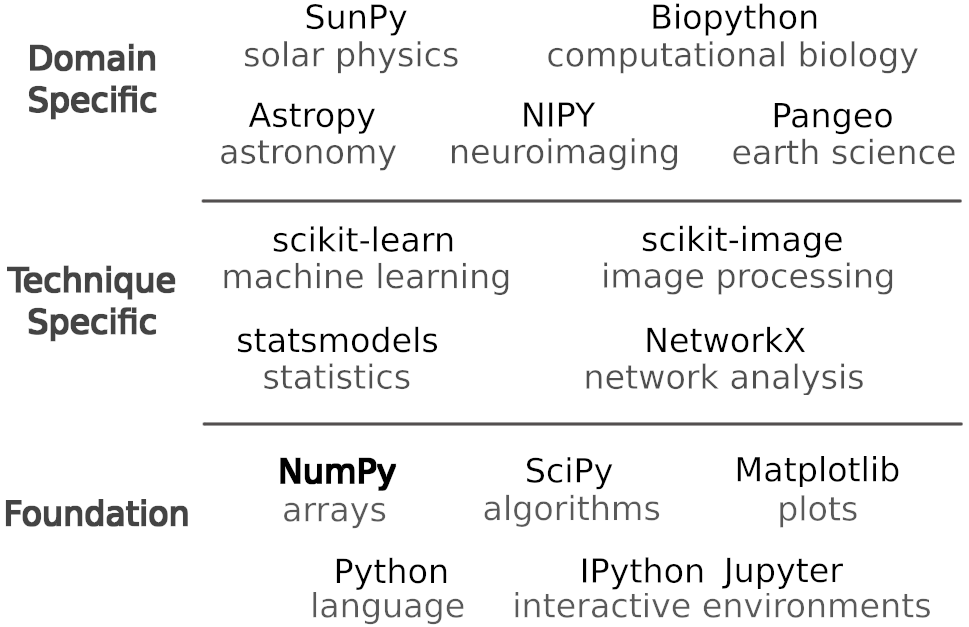
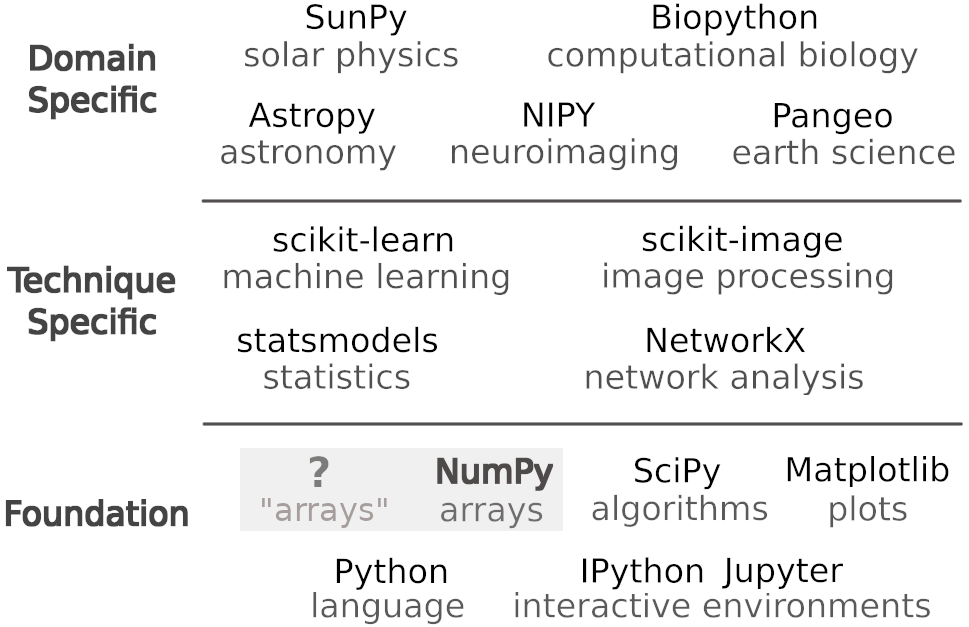
Use vectorize and minor edits

Changed region(s): [[0.4334, 0.7273, 0.9907, 0.8485], [0.2786, 0.7273, 0.4025, 0.8485]]

diff --git a/body.tex b/body.tex
@@ -76,7 +76,7 @@ written in those languages to directly access NumPy array data in memory.
 
 Users interact with NumPy arrays using {\em indexing} (to access
 subarrays or individual elements), {\em operators} (e.g., $+$, $-$, $\times$
-for elementwise operations and $@$ for matrix multiplication), as well as {\em array-aware functions};
+for vectorized operations and $@$ for matrix multiplication), as well as {\em array-aware functions};
 together, these provide an easily readable, expressive, high-level API for
 array programming, while NumPy
 deals with the underlying mechanics of making operations fast.
@@ -89,8 +89,13 @@ the original array, such that data is shared between the two arrays.
 This provides a powerful way to operate on subsets of array data, while
 limiting memory usage.
 
+\fixme{Up to here we were talking about arrays, now we introduce array programming.
+Need to better explain vectorization in array programming.
+This is perhaps the essential thing about it so we should make it slightly
+more explicit.  It is just shorter to type, but it is easier to think
+about. }
 To complement the array syntax, NumPy includes functions that perform
-elementwise calculations on arrays, including arithmetic, statistics, and
+vectorized calculations on arrays, including arithmetic, statistics, and
 trigonometry.
 They aim to loop over array elements near-optimally, taking into consideration,
 e.g., strides, in order to best utilize the computer's fast cache memory.
@@ -98,8 +103,11 @@ Vectorized operations that would take many tens of lines to express in
 languages such as C can often be implemented as a single, clear Python
 expression.
 
-When performing an elementwise operation (such as addition) on two arrays, one
+When performing a vectorized operation (such as addition) on two arrays, one
 expects that these arrays should have the same shape.
+% might expect if you are coming from other languages
+% wouldn't expect if you were doing math
+% scalar vector multiplication, scalar matrix multiplication, etc.
 However, through \emph{broadcasting}, NumPy allows the dimensions to differ, while
 still producing results that appeal to intuition.
 A trivial example is the addition of a scalar value to an array, but it also
@@ -127,24 +135,20 @@ such as OpenBLAS \cite{wang2013augem,xianyi2012model} and Intel MKL optimized fo
 \section*{Scientific Python ecosystem}
 
 
-% - review supporting the ecosystem (actual support element)
-%   - docstrings / testing / packaging
-%   - coordinating mechanism
-%     - deprecation policy
-
 The brevity and expressive power of NumPy's array programming syntax combined with 
 an advanced interactive environment like IPython \cite{perez2007ipython}
 or Jupyter \cite{Kluyver:2016aa} makes interactive data exploration fluid and simple.
-It is common for NumPy users to work interactively with their data,
-discovering through experimentation bits of code that they stitch together into
-imperative or functional programs.
 SciPy and Matplotlib are tightly integrated with NumPy to expand the suite of
 standard algorithms and provide basic plotting capabilities.
-SciPy provides fundamental algorithms for scientific computing on arrays
-including many mathematical, scientific, and engineering routines.
+SciPy provides many fundamental algorithms for scientific computing on arrays
+including mathematical, scientific, and engineering routines.
 Matplotlib generates publication-ready figures and visualizations.
+
+% say something about this already being a good foundation comparable to
+% other scientific computing languages.
+
 The scientific Python ecosystem (Fig.~\ref{fig:ecosystem}) builds on top of
-this solid foundation providing many, widely used technique-specific
+this foundation providing many, widely used technique-specific
 libraries\cite{pedregosa2011scikit,vanderwalt2014scikit,SciPyProceedings_11}
 and several domain-specific projects and libraries
 \cite{astropy:2013,astropy:2018,cock2009biopython,millman2007analysis,2018EGUGA..2012146H}.
@@ -152,12 +156,14 @@ Exposing these simple array programming primitives, as well as the surrounding e
 tools, in Python---an interpreted, general purpose language---creates an ideal environment for
 interactive, exploratory data analysis where users may iteratively inspect,
 manipulate, and visualize their data.
-This rich environment has made the scientific Python ecosystem popular for scientific
+Working interactively with their data, users discover through experimentation
+bits of code that they stitch together into imperative or functional programs.
+This rich and productive environment has made the scientific Python ecosystem popular for scientific
 research.
 
 \begin{figure}
   \centering
-  \includegraphics[width=.48\textwidth]{static/ecosystem}
+  \includegraphics[width=.45\textwidth]{static/ecosystem}
   \caption{\textbf{Scientific Python Ecosystem.}
    This figure highlights some of the essential tools and libraries in the vast
    scientific Python ecosystem.  Most of the ecosystem builds on NumPy to
@@ -172,17 +178,16 @@ NumPy arrays are used to store and manipulate numerical data at every step
 in the processing chain: from raw data through calibration and image 
 reconstruction.
 SciPy is used to provide tools used in general image processing such as 
-filtering and image alignment, while scikit-image provides higher-level
-functionality such as edge filters and Hough transforms.
-scikit-image is a popular technique-specific library,
-which vastly extends the basic image processing tools provided by SciPy.
+filtering and image alignment, while scikit-image---a popular image processing
+library that extends SciPy---provides higher-level functionality such as
+edge filters and Hough transforms.
 Other components of SciPy are used throughout the library, such as the
 \code{scipy.optimize} subpackage for handling general optimization tasks.
-NetworkX \cite{SciPyProceedings_11} (the standard package for complex
-network analysis) is used for analysis of consistency among image
+NetworkX \cite{SciPyProceedings_11}---a popular package for complex
+network analysis---is used for analysis of consistency among image
 comparisons.
-Astropy \cite{astropy:2013, astropy:2018} (a community-developed astronomy
-library) is used throughout the library,
+The community developed astronomy library, Astropy \cite{astropy:2013, astropy:2018},
+is used throughout \code{eht-imaging},
 primarily to handle standard astronomical file formats and time/coordinate
 transformations.
 Matplotlib is
@@ -191,11 +196,11 @@ including the generation of the final image of the black hole.
 % N.B. - most of this comes from introspecting the Image class defined in
 % ehtim/image.py and grepping the dependencies in requirements.txt
 
-Tools for analyzing data from gravitational wave observatories such as LIGO
-and Virgo are provided by the \code{pycbc} package, which was used in the first
+Tools for analyzing data from gravitational wave observatories are
+provided by the \code{pycbc} package, which was used in the first
 detection of gravitational waves \cite{abbott2016observation} and in 
 on-going analysis of data from LIGO and Virgo.
-\code{pycbc} make extensive use of the scientific Python ecosystem.
+\code{pycbc} also make extensive use of the scientific Python ecosystem.
 The time-series data from the interferometers are stored in NumPy arrays,
 while the \code{scipy.signal} subpackage is used to construct and apply filters to the
 data.
@@ -205,12 +210,25 @@ visualization of the ``chirps'' that result from mergers of compact binaries
 such as black holes\cite{abbott2016observation} and
 neutron stars\cite{abbott2017multi}.
 
+% need better transition
+% similar tools exist in physics, chemistry, biology, earth sciences,
+% engineering
+% this means there is an extraordinary need for stability and reliability
+% this conflicts with competing need to innovate
+% resolving this tension requires balancing trade-offs
+% this lead to a proliferation of arrays  
+
 The rich ecosystem of tools building on NumPy and the larger community
 of scientists and programmers using those tools mean that NumPy has a
 responsibility to maintain considerable stability.
 This need creates interesting challenges for NumPy development as the
 computational environment scientists are analyzing their data on continues
 to evolve and change.
+
+% - review supporting the ecosystem (actual support element)
+%   - docstrings / testing / packaging
+%   - coordinating mechanism
+%     - deprecation policy
 
 \section*{Proliferation of arrays}
 
@@ -276,7 +294,7 @@ NumPy arrays, GPU arrays, distributed arrays, and so forth, as appropriate.
 \end{figure}
 
 
-To facilitate \emph{interoperability}, the NumPy team has designed
+To facilitate \emph{interoperability}, the NumPy provides
 ``protocols'' (or contracts of operation), that allow for these arrays to be
 passed to NumPy functions (Fig.~\ref{fig:duck-arrays}).
 NumPy, in turn, dispatches operations to the originating library, as required.
@@ -350,7 +368,7 @@ NumPy has subsequently seen prolific adoption, with millions of users,
 first from research and later also industry.
 It spurred the development of the larger scientific Python ecosystem and
 heralded the current era of wide-spread use of Python for scientific computing.
-The reasons for its success are varied and complex, but include the fact that
+The reasons for its popularity are varied and complex, but include the fact that
 NumPy (a) is built on top of Python,
 (b) has a strong culture of collaboration and good software development practices, and
 (c) provides a cutting-edge array programming environment for scientific data analysis.

diff --git a/summary.tex b/summary.tex
@@ -20,11 +20,13 @@
 Array programming provides powerful notation for accessing,
 manipulating, and operating on data in vectors, matrices, and
 higher-dimensional arrays \cite{iverson1980notation}.
+Vectorization---operating on whole arrays rather than their individual
+elements---is essential to array programming.
 % - a brief account of the background and rationale of the work;
 NumPy is the fundamental array programming library for the Python language
 \cite{dubois2007guest,oliphant2007python,millman2011python,perez2011python}.
-It has been actively developed for over two decades and has more than 850
-contributors, nearly 300,000 dependent repositories on GitHub, and millions of
+Developed for over two decades by more than 850 contributors, 
+it has nearly 300,000 dependent repositories on GitHub and millions of
 downloads per year.
 %It is one of the most commonly used machine learning tools among
 %enterprises \cite{451report2018}.
@@ -33,7 +35,7 @@ diverse as physics, chemistry, astronomy, geoscience, biology, psychology,
 material science, and engineering.
 For example, in astronomy, NumPy was fundamental to discovering gravitational
 waves\cite{pycbc}, the first imaging of a black hole\cite{eht-imaging}, and
-continues underpinning the future exploration of our
+continues underpinning the exploration of our
 universe\cite{jenness2018lsst}.
 % - a statement of the main conclusions (introduced by the phrase 'Here we show' or its equivalent);
 Here we show how a few fundamental concepts lead to a simple and
